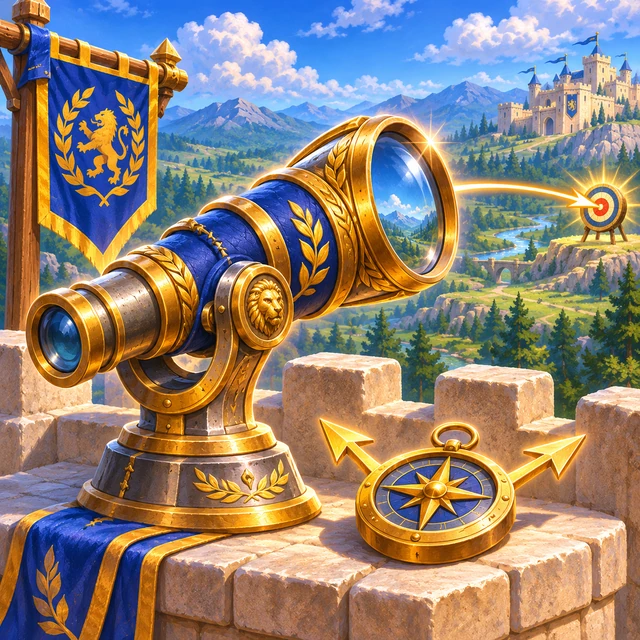
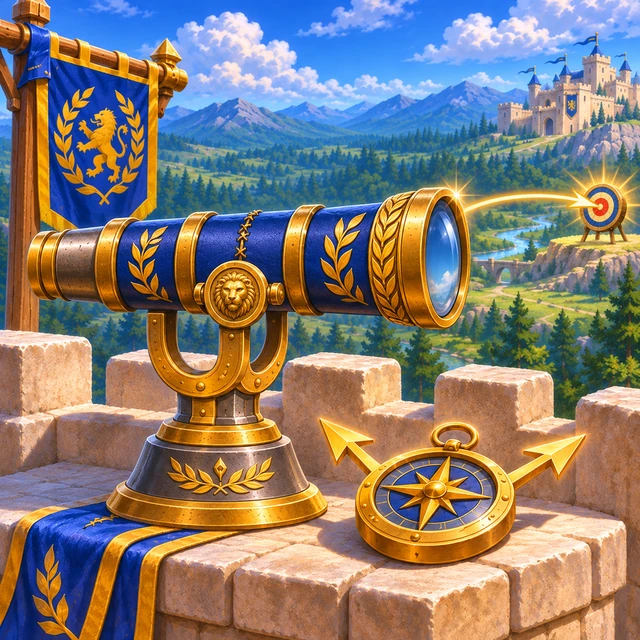
Add faction victory and champion mastery achievements and correct spyglass perspective

diff --git a/ui/war-table-view.js b/ui/war-table-view.js
@@ -14,23 +14,26 @@ export const warArt=name=>siteUrl(`assets/ui/war-table/${name}.webp`);
 export const factionMark=id=>`<span class="faction-mark faction-${id}" aria-hidden="true">${['crown','forge','grove'].includes(id)?`<img src="${siteUrl(`assets/ui/ornate/faction-${({crown:'human',forge:'dwarves',grove:'elves'})[id]}.webp`)}" alt="">`:'♛'}</span>`;
 export const exactNumber=n=>{try{return BigInt(n||0).toLocaleString('en-US');}catch{return '0';}};
 export function achievementData(player,faction='crown'){
- const data=currentFactionData(faction),profile=player.profile||{},owned=new Map(canonicalAchievementRows(profile.grants).map(g=>[g.id,g])),eligible=new Map(canonicalAchievementRows(profile.eligible).map(g=>[g.id,g]));
+ const factionIds=faction==='all'?FACTIONS.map(row=>row.id):[FACTIONS.some(row=>row.id===faction)?faction:'crown'],dataByFaction=Object.fromEntries(factionIds.map(id=>[id,currentFactionData(id)])),data=dataByFaction[factionIds[0]],profile=player.profile||{};
+ const dataFor=row=>dataByFaction[row.factionId]||data,owned=new Map(canonicalAchievementRows(profile.grants).map(g=>[g.id,g])),eligible=new Map(canonicalAchievementRows(profile.eligible).map(g=>[g.id,g]));
  const game=player.game,run=game?.accountId&&!game.developerMode?game.progress:null;
- // Shared milestones follow the current account run across tabs. Faction discoveries do not.
- const pending=new Set(canonicalAchievementRows(run?.grants()||[]).filter(g=>isSharedAchievement(g.id)||g.factionId===faction||g.id.startsWith(`champion:${faction}:`)||g.id.startsWith(`mythic:${faction}`)||g.id.startsWith(`campaign:${faction}`)||g.id.startsWith('endless:')).map(g=>g.id)),verified=new Set([...owned.keys(),...eligible.keys()]);
- const best=Math.max(0,...Object.values(profile.progress||{}).map(p=>p?.streakBest||0),run?.streakBest||0),catalog=achievementCatalog(data,{streakBest:best});
+ // Shared milestones appear once. Each faction discovery remains attached to its own roster.
+ const pending=new Set(canonicalAchievementRows(run?.grants()||[]).filter(g=>isSharedAchievement(g.id)||g.id.startsWith('endless:')||factionIds.includes(g.factionId)||factionIds.some(id=>g.id.split(':')[1]===id)).map(g=>g.id)),verified=new Set([...owned.keys(),...eligible.keys()]);
+ const best=Math.max(0,...Object.values(profile.progress||{}).map(p=>p?.streakBest||0),run?.streakBest||0),catalog=canonicalAchievementRows(factionIds.flatMap(id=>achievementCatalog(dataByFaction[id],{streakBest:best})));
  for(const id of verified){if(id.startsWith('streak:global:')&&!catalog.some(a=>a.id===id))catalog.push(streakAchievement('global',Number(id.split(':').at(-1))/10));}
+ const ids=new Set([...verified,...pending]);
  const progress=a=>{
   const id=canonicalAchievementId(a.id);if(verified.has(id)||pending.has(id))return a.target;
-  const ids=new Set([...verified,...pending]);
-  if(a.kind==='collection')return Math.min(a.target,[...ids].filter(id=>id.startsWith(`champion:${faction}:`)&&eligibleChampion(data.towers[id.split(':').at(-1)])).length);
+  const roster=dataFor(a),owner=a.factionId;
+  if(a.requiredChampions)return Math.min(a.target,a.requiredChampions.filter(family=>ids.has(`champion:${owner}:${family}`)).length);
+  if(a.kind==='collection')return Math.min(a.target,[...ids].filter(id=>id.startsWith(`champion:${owner}:`)&&eligibleChampion(roster.towers[id.split(':').at(-1)])).length);
   if(id==='boss-collection:global')return Math.min(a.target,BOSS_TYPES.filter(type=>ids.has(`boss:global:${type}`)).length);
   if(a.kind==='streak')return Math.min(a.target,best);
   if(a.kind==='endless')return Math.min(a.target,Math.max(0,...Object.values(profile.progress||{}).map(p=>p?.highestWave||0),run?.highestWave||0));
   return 0;
  };
  const state=a=>{const id=canonicalAchievementId(a.id);return owned.has(id)?'claimed':eligible.has(id)?'ready':pending.has(id)||progress(a)>=a.target?'pending':'progress';};
- return {data,catalog,owned,eligible,pending,progress,state};
+ return {data,dataFor,catalog,owned,eligible,pending,progress,state};
 }
 export function achievementById(id){
  id=canonicalAchievementId(id);const faction=id.split(':')[1],data=currentFactionData(['crown','forge','grove'].includes(faction)?faction:'crown');
@@ -50,15 +53,20 @@ export function goalMarkup(player,faction='crown'){
  const g=goals[0];if(!g)return `<section class="war-goal"><div><h2>A legacy worth forging</h2><p>Your collection is complete. Push further into Endless.</p></div></section>`;
  const value=a.progress(g);return `<section class="war-goal"><div><h2>Your next medal</h2><p>${esc(g.name)}</p><div class="war-progress" role="progressbar" aria-label="${esc(g.name)}" aria-valuenow="${value}" aria-valuemin="0" aria-valuemax="${g.target}"><i style="width:${value/g.target*100}%"></i><span>${value} / ${g.target}</span></div></div>${medalAmount(g.reward)}</section>`;
 }
+const factionFeat=row=>row.kind==='campaign'||row.kind==='faction-collection'||row.id===`collection:${row.factionId}:all`;
+const achievementOrder=row=>row.kind==='campaign'?0:row.id===`collection:${row.factionId}:all`?1:row.kind==='faction-collection'?2:3;
 export function achievementsView(player,{faction='crown',kind='all',status='all',offset=0,focusId=null}={}){
- const a=achievementData(player,faction),milestones=new Set(['collection','mastery','campaign','streak','endless']);
- const rows=a.catalog.filter(g=>(kind==='all'||kind==='milestone'&&milestones.has(g.kind)||g.kind===kind)&&(status==='all'||status===a.state(g)||status==='progress'&&['progress','pending'].includes(a.state(g))));
+ const a=achievementData(player,faction),milestones=new Set(['collection','mastery','campaign','faction-collection','streak','endless']);
+ const rows=[...a.catalog].sort((x,y)=>achievementOrder(x)-achievementOrder(y)).filter(g=>(kind==='all'||kind==='faction'&&factionFeat(g)||kind==='milestone'&&milestones.has(g.kind)||g.kind===kind)&&(status==='all'||status===a.state(g)||status==='progress'&&['progress','pending'].includes(a.state(g))));
  if(focusId){const i=rows.findIndex(g=>g.id===focusId);if(i>=0)offset=Math.floor(i/8)*8;}
  const claimed=a.catalog.filter(g=>a.state(g)==='claimed').length,ready=a.catalog.filter(g=>a.state(g)==='ready').length;
- return `<div class="war-collection-heading"><strong>${claimed} / ${a.catalog.length} claimed</strong><span>${ready} ready to claim</span><p>Discover champions. Claim medals. Shape your commander.</p></div><div class="war-album"><aside class="war-categories" aria-label="Achievement categories">${[['all','All','medal'],['champion','Champions','champions'],['boss','Bosses','enemy-waves'],['milestone','Milestones','wave']].map(([id,name,img])=>`<button data-category="${id}" aria-pressed="${kind===id}"><img src="${siteUrl(`assets/ui/ornate/${img}.webp`)}" alt="">${name}</button>`).join('')}</aside><div class="war-album-content"><div class="war-filter-row">${factionTabs(faction)}<label class="war-status-filter war-select-control"><span class="sr-only">Achievement status</span><select name="achievement-state">${[['all','All achievements'],['ready','Ready to claim'],['progress','In progress'],['claimed','Claimed']].map(([id,label])=>`<option value="${id}" ${status===id?'selected':''}>${label}</option>`).join('')}</select></label></div>${goalMarkup(player,faction)}<div class="war-achievement-grid">${rows.slice(offset,offset+8).map(g=>{
-  const state=a.state(g),reveal=!g.secret||a.eligible.has(g.id)||a.owned.has(g.id),name=g.secret&&reveal?a.data.towers[g.id.split(':').at(-1)]?.name||g.name:g.name,value=a.progress(g),grant=a.owned.get(g.id);
-  return `<article class="war-achievement is-${state} ${focusId===g.id?'is-target':''}" data-achievement="${esc(g.id)}"><div class="war-achievement-art"><img src="${esc(achievementArtwork(g,a.data,reveal))}" alt="${esc(name)}" loading="lazy" width="300" height="220"></div><div class="war-achievement-copy"><h2>${esc(name)}</h2>${isSharedAchievement(g.id)?'<span class="war-achievement-scope">Shared across factions</span>':''}<p title="${esc(g.description||g.name)}">${esc(g.description||g.name)}</p><div class="war-achievement-bottom"><span class="war-achievement-state">${state==='claimed'?'✓ Claimed':state==='ready'?'Ready to claim':state==='pending'?'Verification pending':'In progress'}</span>${medalAmount(grant?grant.reward:g.reward,'')}${g.xp?xpAmount(g.xp):''}</div>${state==='progress'||state==='pending'?`<div class="war-progress" role="progressbar" aria-label="${esc(name)} progress" aria-valuenow="${value}" aria-valuemin="0" aria-valuemax="${g.target}"><i style="width:${value/g.target*100}%"></i><span>${value.toLocaleString('en-US')} / ${g.target.toLocaleString('en-US')}</span></div>`:''}${state==='ready'?`<button class="war-claim" data-claim="${esc(g.id)}" ${player.online?'':'disabled'}>Claim · ${g.reward} ${g.reward===1?'medal':'medals'}${g.xp?' + '+g.xp+' XP':''}</button>${!player.online?'<small>Connect to claim your reward.</small>':''}`:state==='claimed'?`<time datetime="${new Date(grant.createdAt).toISOString()}">${new Date(grant.createdAt).toLocaleDateString('en-US',{month:'short',day:'numeric',year:'numeric'})}</time>`:''}</div></article>`;
- }).join('')||'<div class="war-empty"><h2>No achievements match these filters</h2><p>Try another category or show all achievements.</p><button data-clear-filters>Show all achievements</button></div>'}</div><nav class="menu-pagination"><button data-page="${Math.max(0,offset-8)}" ${offset?'':'disabled'}>Previous</button><span>${rows.length?offset+1:0}–${Math.min(offset+8,rows.length)} / ${rows.length}</span><button data-page="${offset+8}" ${offset+8<rows.length?'':'disabled'}>Next</button></nav><p class="war-helper">Claim each reward manually, once per account. Boss victories and flawless milestones are shared across factions. Flawless waves must be consecutive in one run; any keep health loss resets the current streak.</p></div></div>`;
+ return `<div class="war-collection-heading"><strong>${claimed} / ${a.catalog.length} claimed</strong><span>${ready} ready to claim</span><p>Each faction has its own victory, full roster and signature champions.</p></div><div class="war-album"><aside class="war-categories" aria-label="Achievement categories">${[['all','All','medal'],['faction','Faction feats','faction-flag'],['champion','Champions','champions'],['boss','Bosses','enemy-waves'],['milestone','Milestones','wave']].map(([id,name,img])=>`<button data-category="${id}" aria-pressed="${kind===id}">${id==='faction'?'<span class="war-category-faction" aria-hidden="true">⚑</span>':`<img src="${siteUrl(`assets/ui/ornate/${img}.webp`)}" alt="">`}${name}</button>`).join('')}</aside><div class="war-album-content"><div class="war-filter-row">${factionTabs(faction,{all:true})}<label class="war-status-filter war-select-control"><span class="sr-only">Achievement status</span><select name="achievement-state">${[['all','All achievements'],['ready','Ready to claim'],['progress','In progress'],['claimed','Claimed']].map(([id,label])=>`<option value="${id}" ${status===id?'selected':''}>${label}</option>`).join('')}</select></label></div>${goalMarkup(player,faction)}<div class="war-achievement-grid">${rows.slice(offset,offset+8).map(g=>{
+  const roster=a.dataFor(g),state=a.state(g),reveal=!g.secret||a.eligible.has(g.id)||a.owned.has(g.id),name=g.secret&&reveal?roster.towers[g.id.split(':').at(-1)]?.name||g.name:g.name,value=a.progress(g),grant=a.owned.get(g.id),factionName=FACTIONS.find(row=>row.id===g.factionId)?.name;
+  const members=g.kind==='faction-collection'?(g.requiredChampions||[]):[];
+  const memberState=family=>{const id=`champion:${g.factionId}:${family}`;return a.owned.has(g.id)||a.eligible.has(g.id)||a.owned.has(id)||a.eligible.has(id)?'discovered':a.pending.has(id)?'pending':'missing';};
+  const art=members.length?`<div class="war-achievement-trio-art">${members.map(family=>`<img src="${esc(achievementArtwork({id:`champion:${g.factionId}:${family}`,kind:'champion'},roster,true))}" alt="" loading="lazy" width="100" height="180">`).join('')}</div>`:`<img src="${esc(achievementArtwork(g,roster,reveal))}" alt="${esc(name)}" loading="lazy" width="300" height="220">`;
+  return `<article class="war-achievement is-${state} ${factionFeat(g)?'is-faction-feat':''} ${focusId===g.id?'is-target':''}" data-achievement="${esc(g.id)}"${g.factionId?` data-achievement-faction="${g.factionId}"`:''}><div class="war-achievement-art">${art}</div><div class="war-achievement-copy"><h2>${esc(name)}</h2>${factionName?`<span class="war-achievement-scope is-faction">${factionMark(g.factionId)}${esc(factionName)} · Faction achievement</span>`:isSharedAchievement(g.id)?'<span class="war-achievement-scope">Shared across factions</span>':''}<p title="${esc(g.description||g.name)}">${esc(g.description||g.name)}</p>${members.length?`<ul class="war-achievement-requirements" aria-label="Required ${esc(factionName)} champions">${members.map(family=>{const current=memberState(family);return `<li data-required-champion="${family}" data-discovery="${current}"><span aria-hidden="true">${current==='discovered'?'✓':current==='pending'?'◷':'○'}</span><span>${esc(roster.towers[family]?.name||'Champion')}<small>${current==='discovered'?'Discovered':current==='pending'?'Verification pending':'Not discovered'}</small></span></li>`;}).join('')}</ul>`:''}<div class="war-achievement-bottom"><span class="war-achievement-state">${state==='claimed'?'✓ Claimed':state==='ready'?'Ready to claim':state==='pending'?'Verification pending':'In progress'}</span>${medalAmount(grant?grant.reward:g.reward,'')}${g.xp?xpAmount(g.xp):''}</div>${state==='progress'||state==='pending'||factionFeat(g)?`<div class="war-progress" role="progressbar" aria-label="${esc(name)} progress" aria-valuenow="${value}" aria-valuemin="0" aria-valuemax="${g.target}"><i style="width:${value/g.target*100}%"></i><span>${value.toLocaleString('en-US')} / ${g.target.toLocaleString('en-US')}</span></div>`:''}${state==='ready'?`<button class="war-claim" data-claim="${esc(g.id)}" ${player.online?'':'disabled'}>Claim · ${g.reward} ${g.reward===1?'medal':'medals'}${g.xp?' + '+g.xp+' XP':''}</button>${!player.online?'<small>Connect to claim your reward.</small>':''}`:state==='claimed'?`<time datetime="${new Date(grant.createdAt).toISOString()}">${new Date(grant.createdAt).toLocaleDateString('en-US',{month:'short',day:'numeric',year:'numeric'})}</time>`:''}</div></article>`;
+ }).join('')||'<div class="war-empty"><h2>No achievements match these filters</h2><p>Try another category or show all achievements.</p><button data-clear-filters>Show all achievements</button></div>'}</div><nav class="menu-pagination"><button data-page="${Math.max(0,offset-8)}" ${offset?'':'disabled'}>Previous</button><span>${rows.length?offset+1:0}–${Math.min(offset+8,rows.length)} / ${rows.length}</span><button data-page="${offset+8}" ${offset+8<rows.length?'':'disabled'}>Next</button></nav><p class="war-helper">Claim each reward manually, once per account. Faction feats use that faction's own verified champions and victories; the full roster includes all 38 champions, from Basic through Secret. Boss victories and flawless milestones are shared across factions. Flawless waves must be consecutive in one run; any keep health loss resets the current streak.</p></div></div>`;
 }
 export function generalView(profile,enabled=true,{selected='morale-boost',equipped=profile?.equipped||[]}={}){
  const p=profile||{balance:0,skills:{}},skills=p.skills||{};if(!GENERAL_SKILLS[selected])selected='morale-boost';

diff --git a/ui/war-table.css b/ui/war-table.css
@@ -13,6 +13,11 @@
 #main-menu .war-select-control select:focus-visible{outline:3px solid #347e9a;outline-offset:3px}
 #main-menu .war-select-control option{background:#fff8e7;color:#173d3c}
 .war-achievement-scope{align-self:center;padding:3px 7px;border:1px solid #92a38b;border-radius:10px;background:#e5ead9;color:#35594d;font:700 10px/1.3 var(--war-sans);text-align:center}
+.war-achievement-scope.is-faction{display:inline-flex;align-items:center;justify-content:center;gap:5px;background:#f1e5c4;border-color:#b49b61;color:#655126}
+.war-achievement-scope .faction-mark{min-width:18px;width:18px;height:18px;font-size:18px;line-height:18px}.war-achievement-scope .faction-mark img{width:18px;height:18px;object-fit:contain}
+.war-achievement-trio-art{width:100%;height:100%;display:grid;grid-template-columns:repeat(3,minmax(0,1fr));align-items:end;gap:2px}.war-achievement-trio-art>img{min-width:0;max-width:100%;object-fit:contain}
+.war-achievement-requirements{list-style:none;padding:0;margin:0;display:grid;gap:5px;font:600 11px/1.35 var(--war-sans)}.war-achievement-requirements li{display:flex;align-items:center;gap:5px;min-width:0}.war-achievement-requirements li>span:first-child{font-size:14px;min-width:15px;color:#7e744f}.war-achievement-requirements li[data-discovery="discovered"]>span:first-child{color:#386749}.war-achievement-requirements small{display:block;color:#7d745d;font-size:10px;font-weight:400}
+.war-category-faction{width:38px;text-align:center;font-size:34px;line-height:38px;color:#8e7037}
 :root{--war-ink:#173d3c;--war-paper:#f5edd7;--war-brass:#c4a164;--war-serif:Cinzel,Georgia,serif;--war-sans:'Source Sans 3','Segoe UI',sans-serif}
 .sr-only{position:absolute!important;width:1px;height:1px;padding:0;margin:-1px;overflow:hidden;clip:rect(0,0,0,0);white-space:nowrap;border:0}
 #main-menu{padding:18px;background:radial-gradient(ellipse at 15% 0,#37605266,transparent 65%),#173d3c;color:var(--war-ink);font:16px/1.4 var(--war-sans);--gold:#c4a164}
@@ -122,3 +127,5 @@
 
 #main-menu .war-detail-ranks strong{font-size:14px;line-height:1.4;overflow-wrap:anywhere}.war-detail-ranks small{font-size:11px;line-height:1.4}.war-detail-ranks .commander-rank-state{font-weight:700}.war-skill[data-purchase-state="rank-locked"] .war-skill-select small:last-child{font-weight:600;color:#85552e}.war-skill[data-purchase-state="available"] .war-skill-select small:last-child{font-weight:600;color:#32614b}.war-detail-ranks>div{min-width:0}.war-upgrade-effect strong{font-size:16px;overflow-wrap:anywhere}
 @media(max-width:600px){.war-detail-ranks{gap:5px}.war-detail-ranks>div{padding:10px 5px;gap:7px}.war-detail-ranks small{font-size:10px}#main-menu .war-detail-ranks strong{font-size:12px}.war-skill-select>span{min-width:0}.war-upgrade-effect{flex-direction:column;gap:6px}}
+.war-achievement.is-faction-feat p{white-space:normal;overflow:visible}.war-achievement.is-faction-feat .war-achievement-scope{font-size:10px}
+@media(max-width:600px){.war-filter-row .war-faction-tabs{display:grid;grid-template-columns:repeat(2,minmax(0,1fr));width:100%}.war-filter-row .war-faction-tabs button{justify-content:center;min-width:0}.war-categories{display:grid;grid-template-columns:repeat(3,minmax(0,1fr))}.war-category-faction{display:none}.war-achievement-scope.is-faction{font-size:9px;line-height:1.3;padding:3px 5px}.war-achievement-requirements{font-size:10px;gap:6px}.war-achievement-requirements small{font-size:9px}}

diff --git a/ui/achievement-notices.js b/ui/achievement-notices.js
@@ -2,6 +2,7 @@ import {achievementById} from './war-table-view.js';
 import {achievementArtwork,escapeProgression as esc} from './progression-art.js';
 import {canonicalAchievementId,isSharedAchievement} from '../game/core/achievements.js';
 import {canonicalAchievementRows,achievementIdSet} from '../game/achievement-client-state.js';
+import {FACTIONS} from '../game/core/factions.js';
 
 const noticeKey=key=>key.startsWith('unlocked:')?'unlocked:'+canonicalAchievementId(key.slice(9)):key;
 
@@ -29,8 +30,8 @@ export class AchievementNotices{
   if(this.current||!this.queue.length)return;
   this.current=this.queue.shift();const n=this.current;this.seen.add(n.key);try{localStorage.setItem('war-achievement-notices:'+this.owner,JSON.stringify([...this.seen].filter(k=>!k.startsWith('summary:')).slice(-2000)));}catch{}
   const {data,row}=n.id?achievementById(n.id):{},name=row?.secret&&n.type!=='pending'?data.towers[n.id.split(':').at(-1)]?.name||row.name:row?.name||'Achievement';
-  const summary=n.type==='summary',pending=n.type==='pending';
-  this.root.innerHTML=`<section class="achievement-notice" data-notice><button class="achievement-notice-close" aria-label="Dismiss achievement notification">×</button>${row?`<img class="achievement-notice-art" src="${esc(achievementArtwork(row,data,!pending))}" alt="">`:''}<div class="achievement-notice-copy"><div class="achievement-notice-live" role="status" aria-live="polite" aria-atomic="true"><small>ACHIEVEMENT UNLOCKED</small><h2>${summary?`${n.count} achievement${n.count===1?'':'s'}`:esc(name)}</h2>${isSharedAchievement(n.id)?'<small>Shared across factions</small>':''}<p>${pending?'Well done! Verification pending.':'Well done, Commander!'}</p></div></div></section>`;
+  const summary=n.type==='summary',pending=n.type==='pending',factionName=FACTIONS.find(faction=>faction.id===row?.factionId)?.name;
+  this.root.innerHTML=`<section class="achievement-notice" data-notice><button class="achievement-notice-close" aria-label="Dismiss achievement notification">×</button>${row?`<img class="achievement-notice-art" src="${esc(achievementArtwork(row,data,!pending))}" alt="">`:''}<div class="achievement-notice-copy"><div class="achievement-notice-live" role="status" aria-live="polite" aria-atomic="true"><small>ACHIEVEMENT UNLOCKED</small><h2>${summary?`${n.count} achievement${n.count===1?'':'s'}`:esc(name)}</h2>${factionName?`<small>${esc(factionName)} · Faction achievement</small>`:isSharedAchievement(n.id)?'<small>Shared across factions</small>':''}<p>${pending?'Well done! Verification pending.':'Well done, Commander!'}</p></div></div></section>`;
   this.remaining=4500;this.resume();
  }
  pause(){if(this.timer){clearTimeout(this.timer);this.remaining=Math.max(0,this.remaining-(performance.now()-this.started));this.timer=null;}}

diff --git a/game/core/achievements.js b/game/core/achievements.js
@@ -1,4 +1,5 @@
 import {eligibleChampion,achievementXP} from './account-progression.js';
+import {FACTION_ACHIEVEMENT_DEFINITIONS,factionCollectionAchievements} from './faction-achievements.js';
 export {canonicalAchievementId,isSharedAchievement} from './account-progression.js';
 export const championMedalReward=unit=>unit?.classification?.toLowerCase()==='top'?3:1;
 export const BOSS_TYPES=Object.freeze(['host_10','host_20','host_30','host_40','host_50']);
@@ -6,7 +7,9 @@ export function achievementCatalog(data,progress=null){
  const f=data.factionId,rows=Object.entries(data.towers).filter(([,u])=>eligibleChampion(u)).map(([id,u])=>({id:`champion:${f}:${id}`,factionId:f,kind:'champion',name:u.classification?.toLowerCase()==='secret'?'Secret champion':u.name,secret:u.classification?.toLowerCase()==='secret',description:'Forge this champion in a legal run.',reward:championMedalReward(u),target:1}));
  for(const id of BOSS_TYPES)rows.push({id:`boss:global:${id}`,factionId:null,kind:'boss',name:data.enemies[id]?.name||id,description:'Defeat this boss with any faction.',reward:2,target:1});
  for(const [target,reward]of [[5,2],[15,4],[30,8]])rows.push({id:`collection:${f}:${target}`,factionId:f,kind:'collection',name:`Forge ${target} different champions`,reward,target});
- rows.push({id:`mythic:${f}`,factionId:f,kind:'mastery',name:'First rank VI',description:'Merge two fresh rank-V recruits.',reward:2,target:1},{id:`campaign:${f}`,factionId:f,kind:'campaign',name:'Hold the kingdom',description:'Defeat wave 50.',reward:5,target:1},{id:'boss-collection:global',factionId:null,kind:'boss',name:'All five warlords',description:'Defeat all five original bosses across any factions.',reward:5,target:5});
+ rows.push(...factionCollectionAchievements(data));
+ const faction=FACTION_ACHIEVEMENT_DEFINITIONS[f];
+ rows.push({id:`mythic:${f}`,factionId:f,kind:'mastery',name:'First rank VI',description:'Merge two fresh rank-V recruits.',reward:2,target:1},{id:`campaign:${f}`,factionId:f,kind:'campaign',name:faction?.campaignName||'Wave 50 Victory',description:`Complete all of wave 50 in a legal ${faction?.factionName||'faction'} run. Defeating the boss alone is not enough.`,reward:5,target:1},{id:'boss-collection:global',factionId:null,kind:'boss',name:'All five warlords',description:'Defeat all five original bosses across any factions.',reward:5,target:5});
  const highest=Math.max(3,Math.ceil((progress?.streakBest||0)/10)+1);
  for(let n=1;n<=highest;n++)rows.push(streakAchievement(f,n));
  for(const [target,reward]of [[60,3],[75,5],[100,8]])rows.push({id:`endless:${target}`,kind:'endless',name:`Complete wave ${target}`,reward,target});

diff --git a/backend/player-service.js b/backend/player-service.js
@@ -14,6 +14,7 @@ import {activeAchievement,accountProgression,settleRunExperience} from './accoun
 import {eligibleChampion,skillGate,accountRank,newlyAvailableSkills,canonicalAchievementId} from '../game/core/account-progression.js';
 import {BOSS_TYPES} from '../game/core/achievements.js';
 import {mergeAchievementRows,reconcileAchievementEntitlements} from './achievement-entitlements.js';
+import {factionCollectionAchievements} from '../game/core/faction-achievements.js';
 
 const json=(value,status=200)=>Response.json(value,{status,headers:{'Cache-Control':'no-store','X-Content-Type-Options':'nosniff'}});
 const fail=(message,status=400)=>{throw Object.assign(new Error(message),{status});};
@@ -61,8 +62,9 @@ async function walletMutation(db,user,b,kind){
 
 function earnedGrants(game,existing){
  const rows=game.progress.grants(),ids=new Set([...existing.map(x=>x.id),...rows.map(x=>x.id)]),f=game.factionId;
- const champions=[...ids].filter(x=>x.startsWith(`champion:${f}:`)&&eligibleChampion(game.data.towers[x.split(':').at(-1)])).length,bosses=new Set([...ids].map(canonicalAchievementId).filter(x=>x.startsWith('boss:global:')).map(x=>x.split(':').at(-1)));
- for(const [target,reward]of [[5,2],[15,4],[30,8]])if(champions>=target)rows.push({id:`collection:${f}:${target}`,factionId:f,reward});
+ const champions=new Set([...ids].filter(x=>x.startsWith(`champion:${f}:`)&&eligibleChampion(game.data.towers[x.split(':').at(-1)])).map(x=>x.split(':').at(-1))),bosses=new Set([...ids].map(canonicalAchievementId).filter(x=>x.startsWith('boss:global:')).map(x=>x.split(':').at(-1)));
+ for(const [target,reward]of [[5,2],[15,4],[30,8]])if(champions.size>=target)rows.push({id:`collection:${f}:${target}`,factionId:f,reward});
+ for(const row of factionCollectionAchievements(game.data))if(row.requiredChampions.every(id=>champions.has(id)))rows.push({id:row.id,factionId:f,reward:row.reward});
  if(BOSS_TYPES.every(id=>bosses.has(id)))rows.push({id:'boss-collection:global',factionId:null,reward:5});const owned=new Set(existing.map(x=>canonicalAchievementId(x.id)));return rows.map(row=>({...row,id:canonicalAchievementId(row.id)})).filter(x=>!owned.has(x.id));
 }
 async function claimAchievement(db,user,b){

diff --git a/game/core/account-progression.js b/game/core/account-progression.js
@@ -1,4 +1,5 @@
 // Shared account rules. Presentation never grants experience or changes combat.
+import {FACTION_ACHIEVEMENT_DEFINITIONS} from './faction-achievements.js';
 export const MILITARY_RANKS=Object.freeze(['Peasant','Militia','Recruit','Footman','Soldier','Veteran','Sergeant','Lieutenant','Captain','Major','Colonel','Commander','General','Marshal','King'].map((name,i)=>Object.freeze({name,level:i+1,xp:[0,20,45,75,110,150,200,260,330,410,500,600,720,850,1000][i],id:name.toLowerCase()})));
 export const BOSS_XP=Object.freeze({host_10:2,host_20:3,host_30:4,host_40:5,host_50:8});
 export const SKILL_LEVEL_GATES=Object.freeze({'morale-boost':[5,9,12],'war-horn':[7,11,14],'blood-wrath':[9,12,15],'field-promotion':[7,10,14],'decisive-strike':[9,13,15],'fortified-keep':[2,6,11],'extended-range':[6,10,13]});
@@ -28,9 +29,10 @@ export function skillGate(skill,rank,profile={}){
 }
 export function newlyAvailableSkills(before,after){return Object.entries(SKILL_LEVEL_GATES).flatMap(([skill,levels])=>levels.flatMap((level,i)=>accountRank(before).level<level&&accountRank(after).level>=level?[{skill,rank:i+1,level}]:[]));}
 export function achievementXP(data,id){
- const [kind,,last]=id.split(':');
+ const [kind,faction,last]=id.split(':');
  if(kind==='champion'){const u=data.towers[last];return eligibleChampion(u)?({basic:1,intermediate:2,advanced:3,top:5,secret:8}[String(u.classification).trim().toLowerCase()]||0):0;}
- if(kind==='collection')return {5:3,15:8,30:15}[last]||0;
+ if(kind==='collection')return last==='all'&&FACTION_ACHIEVEMENT_DEFINITIONS[faction]&&id===`collection:${faction}:all`?20:{5:3,15:8,30:15}[last]||0;
+ if(kind==='faction'){const theme=FACTION_ACHIEVEMENT_DEFINITIONS[faction]?.thematic;return theme?.slug===last&&id===`faction:${faction}:${last}`?theme.xp:0;}
  if(kind==='campaign')return 8;if(kind==='boss-collection')return 10;
  if(kind==='endless')return {60:5,75:10,100:20}[id.split(':')[1]]||0;
  if(kind==='streak')return Number.isSafeInteger(+last)&&+last>0&&+last%10===0?+last/10:0;

diff --git a/backend/achievement-entitlements.js b/backend/achievement-entitlements.js
@@ -2,6 +2,7 @@ import {canonicalAchievementId,eligibleChampion,isSharedAchievement} from '../ga
 import {achievementCatalog,streakAchievement,BOSS_TYPES} from '../game/core/achievements.js';
 import {currentFactionData} from '../game/core/current-data.js';
 import {verifiedRunProgress} from './verified-run-progress.js';
+import {factionCollectionAchievements} from '../game/core/faction-achievements.js';
 
 const factions=['crown','forge','grove'];
 const shared=isSharedAchievement;
@@ -52,11 +53,15 @@ export async function reconcileAchievementEntitlements(db,user,reset){
   for(const run of runs){const f=run.faction_id;if(!factions.includes(f)||run.ruleset!==currentFactionData(f).rulesetRevision)continue;
    const saved=await db.prepare('SELECT snapshot_json FROM fr010_runs WHERE user_id=? AND id=?').bind(user,run.id).first();
    const progress=verifiedRunProgress({...run,snapshot_json:saved?.snapshot_json});if(progress.excluded||progress.epoch!==reset.epoch)continue;
+   if(progress.waves>=50||progress.campaign)remember(`campaign:${f}`,{runId:run.id});
    for(const id of progress.champions){if(!eligibleChampion(currentFactionData(f).towers[id]))continue;champions[f].add(id);remember(`champion:${f}:${id}`,{runId:run.id});}
    for(const type of progress.bosses){bosses.add(type);remember(`boss:global:${type}`,{runId:run.id});}
    best=Math.max(best,progress.streakBest);
   }
-  for(const f of factions)for(const target of [5,15,30])if(champions[f].size>=target)remember(`collection:${f}:${target}`);
+  for(const f of factions){
+   for(const target of [5,15,30])if(champions[f].size>=target)remember(`collection:${f}:${target}`);
+   for(const row of factionCollectionAchievements(currentFactionData(f)))if(row.requiredChampions.every(id=>champions[f].has(id)))remember(row.id);
+  }
   if(BOSS_TYPES.every(id=>bosses.has(id)))remember('boss-collection:global');
   for(let n=10;n<=best;n+=10)remember(`streak:global:${n}`);
   if(!pendingGrants.length&&!pendingEligible.size)return false;

diff --git a/game/core/faction-achievements.js b/game/core/faction-achievements.js
@@ -1,0 +1,20 @@
+// Faction milestones depend only on verified wave clears and champion crafts.
+// Combat-performance counters are deliberately not inferred from discoveries.
+const definition=(factionId,factionName,slug,thematicName,champions)=>Object.freeze({
+ factionName,campaignName:`${factionName} Wave 50 Victory`,
+ thematic:Object.freeze({id:`faction:${factionId}:${slug}`,slug,name:`${factionName} ${thematicName}`,champions:Object.freeze(champions),reward:4,xp:6}),
+});
+export const FACTION_ACHIEVEMENT_DEFINITIONS=Object.freeze({
+ crown:definition('crown','Human','combined-arms','Combined Arms',['rimewatch','verdantguard','sunward']),
+ forge:definition('forge','Dwarf','forge-engineering','Forge Engineering',['dw_cinderhowitzer','dw_ironclad','dw_steamharpooner']),
+ grove:definition('grove','Elf','grove-guardians','Grove Guardians',['el_stormblade_warden','el_stag_knight','el_elven_archmage']),
+});
+export function factionCollectionAchievements(data){
+ const factionId=data.factionId,definition=FACTION_ACHIEVEMENT_DEFINITIONS[factionId];if(!definition)return[];
+ const all=Object.freeze(Object.entries(data.towers).filter(([,unit])=>unit.advanced).map(([id])=>id)),theme=definition.thematic;
+ const named=theme.champions.map(id=>data.towers[id]?.name||id);
+ return[
+  {id:`collection:${factionId}:all`,factionId,kind:'collection',name:`All ${definition.factionName} Champions`,description:`Forge every ${definition.factionName} champion, from Basic through Secret, across legal runs.`,reward:12,xp:20,target:all.length,requiredChampions:all},
+  {id:theme.id,factionId,kind:'faction-collection',name:theme.name,description:`Forge ${named.join(', ')} across legal ${definition.factionName} runs.`,reward:theme.reward,xp:theme.xp,target:theme.champions.length,requiredChampions:theme.champions},
+ ];
+}

diff --git a/backend/verified-run-progress.js b/backend/verified-run-progress.js
@@ -4,5 +4,5 @@ export function verifiedRunProgress(run){
  const summary=parse(run.progress_json,{}),snapshot=parse(run.snapshot_json,{}),graph=snapshot.graph;
  const root=graph?.nodes?.[graph?.root?.r]?.value||{},node=ref=>graph?.nodes?.[ref?.r]?.value;
  const game=node(root.game)||{},progress=node(root.progress)||{},bosses=Array.isArray(summary.bosses)?summary.bosses:node(progress.bosses)||[],champions=[...(Array.isArray(summary.champions)?summary.champions:[]),...(Array.isArray(node(progress.champions))?node(progress.champions):[])],streaks=[summary.streakBest,progress.streakBest].filter(n=>Number.isSafeInteger(n)&&n>=0);
- return {epoch:game.progressionEpoch||'initial',waves:Math.max(0,Number.isSafeInteger(run.highest_wave)?run.highest_wave:0),bosses:[...new Set(bosses.filter(id=>Object.hasOwn(BOSS_XP,id)))],bossWaves:summary.bossWaves||node(progress.bossWaves)||{},champions:[...new Set(champions.filter(id=>typeof id==='string'))],streakBest:Math.max(0,...streaks),excluded:['developer','reset'].includes(run.outcome)||game.developerMode===true,missingBossEvidence:!Array.isArray(summary.bosses)&&!Array.isArray(node(progress.bosses))&&(summary.bossKills||0)>0};
+ return {epoch:game.progressionEpoch||'initial',waves:Math.max(0,Number.isSafeInteger(run.highest_wave)?run.highest_wave:0),campaign:summary.campaign===true||progress.campaign===true,bosses:[...new Set(bosses.filter(id=>Object.hasOwn(BOSS_XP,id)))],bossWaves:summary.bossWaves||node(progress.bossWaves)||{},champions:[...new Set(champions.filter(id=>typeof id==='string'))],streakBest:Math.max(0,...streaks),excluded:['developer','reset'].includes(run.outcome)||game.developerMode===true,missingBossEvidence:!Array.isArray(summary.bosses)&&!Array.isArray(node(progress.bosses))&&(summary.bossKills||0)>0};
 }

diff --git a/ui/main-menu.js b/ui/main-menu.js
@@ -48,6 +48,7 @@ export class MainMenu{
    this.page=page;this.authDialog.innerHTML=authDialogMarkup(page,this.player.authOptions,this.player.mailMode);if(!this.authDialog.open)this.authDialog.showModal();this.authDialog.querySelector('#auth-title').focus({preventScroll:true});return;
   }
   this.closeAuth(false);this.closeReplace(false);
+  if(page==='legacy'&&this.faction==='all')this.faction='crown';
   if(page!=='legacy'&&this.faction==='legacy')this.faction='crown';this.page=page;this.app.inert=true;this.root.hidden=false;if(this.player.game)this.player.game.paused=true;
   let title='Choose your allegiance.',content='';
   if(page==='home'){

diff --git a/public/assets/ui/war-table/README.md b/public/assets/ui/war-table/README.md
@@ -8,7 +8,7 @@ All nineteen WebP illustrations were generated with the built-in image generatio
 
 - `hall-backdrop.webp` is a 1800 × 600 panorama with empty podium fronts. Render all player data and crests as HTML. Podium centers are approximately 28.5%, 50%, and 71.5% of width. Do not crop this image independently of the overlaid data.
 - `saved-defense.webp` is a 1000 × 667 map illustration with a quiet ivory left third for a live saved-game label. It contains no game state.
-- The eleven named skill images are 640 × 640 illustrations. Use the same files for catalog thumbnails, selected skill details, in-game controls, and leaderboard loadout symbols. Field Promotion, Decisive Strike, and Fortified Keep were added on 16 November 2026 in the same painted blue-and-gold castle style. Their exact PNG originals and preparation receipt remain local under `output/implementation/achievement-scope-current/artwork/`. Extended Range uses a brass spyglass and outward arrows in the same style; its exact PNG and prompt are under `output/implementation/commander-range-current/artwork/`.
+- The eleven named skill images are 640 × 640 illustrations. Use the same files for catalog thumbnails, selected skill details, in-game controls, and leaderboard loadout symbols. Field Promotion, Decisive Strike, and Fortified Keep were added on 16 November 2026 in the same painted blue-and-gold castle style. Their exact PNG originals and preparation receipt remain local under `output/implementation/achievement-scope-current/artwork/`. Extended Range uses a brass spyglass and outward arrows in the same style. Its current perspective-corrected PNG, prompt and preparation receipt are under `output/implementation/faction-achievements-current/artwork/`: all barrel sections share one optical axis, and only the right objective glass face is visible. The original generation and prompt remain intact in `output/implementation/commander-range-current/artwork/` and as the manifest's `replacedGeneration` evidence.
 - `collection`, `mastery`, `campaign`, `streak`, `endless`, and `secret` are 640 × 640 milestone illustrations. The mastery shield intentionally has no baked rank text; the secret folio does not depict or reveal a secret champion.
 - `medal.svg` has a 48 × 64 viewBox and matches the blue-ribbon, gold-star medal in the approved references.
 

diff --git a/docs/ACCOUNT_PROGRESSION_IMPLEMENTATION.md b/docs/ACCOUNT_PROGRESSION_IMPLEMENTATION.md
@@ -12,6 +12,8 @@ Migration backfills trustworthy server history once, preserves medals/discoverie
 
 ## Achievements and skills
 
+Each faction has an explicitly named Wave 50 Victory achievement (5 medals + 8 XP), an All Champions collection covering all 38 champions including Basic and Secret (12 medals + 20 XP), and a distinct thematic collection (4 medals + 6 XP). Human Combined Arms requires Frostsword Watchmen, Royal Marksman and Priest; Dwarf Forge Engineering requires Siege Cannon, Iron Golem and Flamethrower; Elf Grove Guardians requires Ironbark Ent, Stag Bulwark and Thunder Phoenix. Champion collection evidence may span verified runs of the same faction. Completing wave 50 requires the entire wave to clear; killing its boss alone does not qualify. Existing campaign identities and paid rewards remain unchanged, and missing eligibility is backfilled from trusted history in the active progression epoch.
+
 Basic champion achievements are included in the catalog, eligibility and Claim validation. Each first crafted Basic champion rewards one medal and one XP. Collections count all 38 champions in each faction, including Basic, while retaining their existing 5/15/30 milestones. Rank VI still earns two medals and no XP. Every achievement reward requires manual Claim; gameplay wave/boss XP settles automatically.
 
 Boss achievements, the five-boss collection and flawless-wave milestones share account-wide identities across factions. A flawless milestone uses the best consecutive sequence within one verified run; sequences from separate runs never add together. Additive reconciliation preserves historical grants, wallet balances, XP receipts, purchases and scores, treats previously paid faction aliases as already claimed, and backfills missing Basic eligibility from verified runs in the current progression epoch. No progression reset is performed. Commander has no reset/refund control in the active or legacy view; historical server receipts remain compatible.
